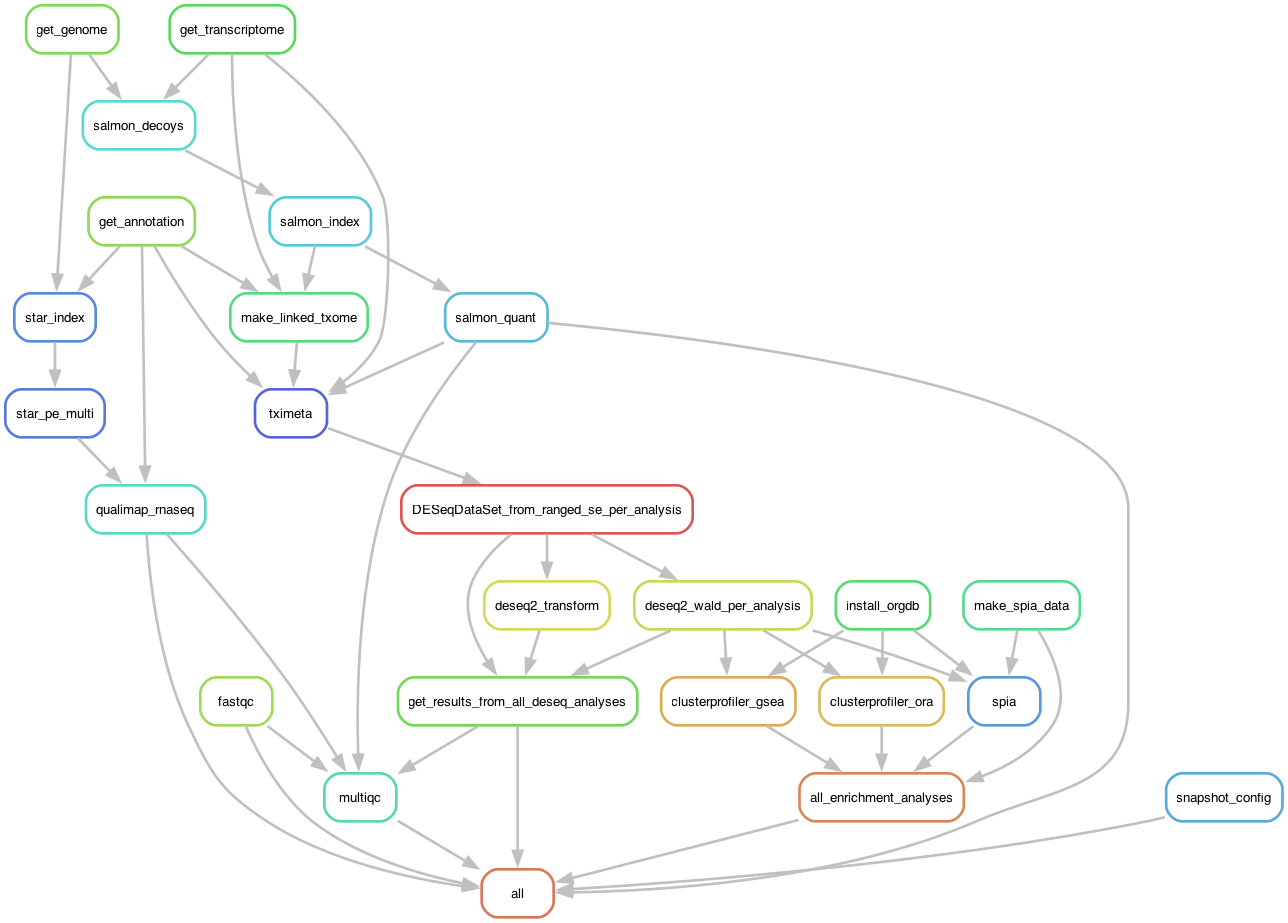
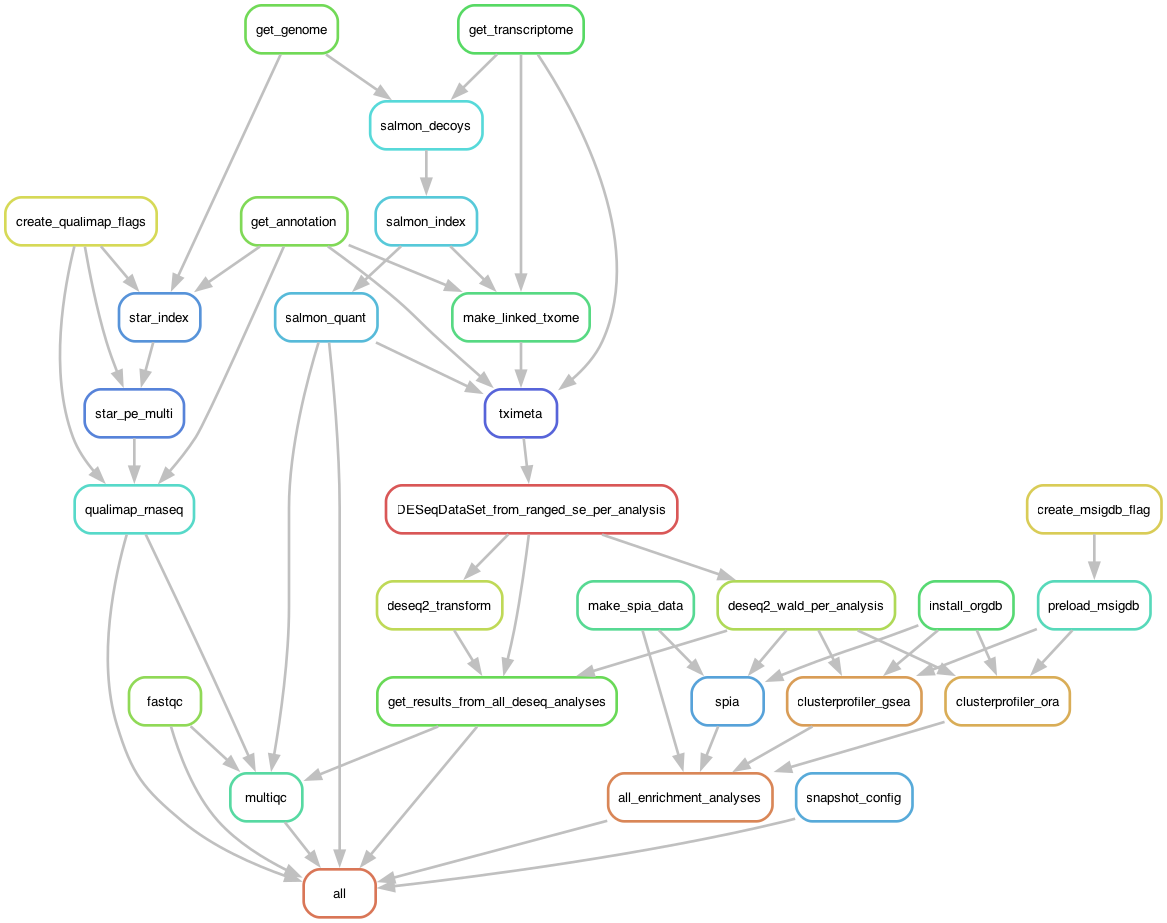
docs: Revise README for clarity and expand workflow scope
- Updated the description of the `tucca-rna-seq` workflow to emphasize its modularity and adaptability for various RNA-Seq projects.
- Added a section on getting started, including a Data Collection Template to help users organize their data and metadata.
- Introduced a new section on future AI-powered analysis integration, outlining plans for a chat application connected to RNA-Seq results.
- Removed outdated workflow image and replaced it with an updated version for better visualization.

diff --git a/README.md b/README.md
@@ -2,9 +2,14 @@
   <img width="25%" align="left" src="images/tucca-rna-seq-logo-white.png" alt="tucca-rna-seq logo">
 </div>
 
-**`tucca-cellag/tucca-rna-seq`** is the
-[Tufts University Center for Cellular Agriculture's (TUCCA)][1] RNA-Seq
-workflow specifically designed for cellular agriculture projects.
+**`tucca-cellag/tucca-rna-seq`** is a modular RNA-Seq workflow developed in the
+[Kaplan Lab at TUCCA][1] and is adaptable for most RNA-Seq projects.
+
+Initially, this workflow was tailored for cellular agriculture research,
+focusing on the analysis of muscle and fat cell transcriptomes. Over time, it
+has been expanded into a flexible and modular tool suitable for a broad range
+of RNA-Seq applications. Its adaptable design allows for easy modification to
+fit various experimental needs beyond its original scope.
 
 This workflow was developed using the [Snakemake][1.5] workflow management
 system. `tucca-rna-seq` is a standardized usage Snakemake workflow that follows
@@ -30,7 +35,6 @@ Snakemake v9.3) and can be found in the [Snakemake Workflow Catalog][3].
 [![Follow on Twitter](http://img.shields.io/badge/tuftscellag-1DA1F2?label=twitter&logo=x)](https://twitter.com/tuftscellag)
 [![Connect on LinkedIn](https://custom-icon-badges.demolab.com/badge/TUCCA-0077B5?label=LinkedIn&logo=linkedin-white&logoColor=fff)](https://www.linkedin.com/company/tufts-cell-ag/)
 
-
 > [!WARNING]
 > This workflow is still under construction. [Release v0.9.0][8] marks our first
 > public release. v0.9.0 contains all logic to process raw paired-end RNA-Seq
@@ -42,8 +46,18 @@ Snakemake v9.3) and can be found in the [Snakemake Workflow Catalog][3].
 > dynamically explore and visualize your results. This will include a suite of
 > Shiny applications leveraging powerful packages like [`pcaExplorer`][9],
 > [`ideal`][10], and [`GeneTonic`][11] to bring your data to life, as well as
-> custom scripting to generate our favorite [`clusterProfiler`][12] figures. We
-> encourage users to test this v0.9.0 release and provide feedback. Users should
+> custom scripting to generate our favorite [`clusterProfiler`][12] figures.
+>
+> **Looking Ahead: AI-Powered Analysis Integration**
+>
+> Beyond v1.0.0, we're developing an innovative AI-powered analysis platform
+> that will integrate directly with this workflow. This platform will feature a
+> private Large Language Model (LLM) chat application connected to your RNA-Seq
+> results, enabling natural language queries about your data. The system will
+> automatically vectorize workflow outputs and provide intelligent,
+> context-aware analysis assistance.
+>
+> We encourage users to test this v0.9.0 release and provide feedback. Users should
 > expect our documentation to be incomplete and continue to have major reworks
 > until v1.0.0 is released. Please [open an issue][5] to report any bugs or
 > suggest improvements. Additionally, feel free to [contact us][contact] with
@@ -56,10 +70,23 @@ The usage of this workflow is described in our documentation at
 we're missing (in the workflow or in our documentation) please
 [open an issue][5] to let us know.
 
+### Getting Started
+
+Before running the workflow, we recommend reviewing our
+[Data Collection Template](https://tucca-cellag.github.io/tucca-rna-seq/getting-started/data-collection)
+to ensure you have all necessary information organized. This template helps you:
+
+- Organize your raw sequencing data
+- Document sample metadata and experimental design
+- Specify analysis parameters and preferences
+- Plan for quality control and visualization needs
+
+For detailed workflow documentation, visit [tucca-cellag.github.io][2].
+
 ## Workflow Overview
 
 <div align="center">
-  <img alt="tucca-rna-seq workflow map" src="images/tucca-rna-seq-workflow-no-logo.png" width="700">
+  <img alt="tucca-rna-seq workflow map" src="images/tucca-rna-seq-workflow.png" width="700">
   <p>Created in <a href="https://BioRender.com">https://BioRender.com</a></p>
 </div>
 
@@ -122,7 +149,7 @@ the `tucca-cellag` community, we ask that you observe our [code of conduct][7].
 [1.5]: https://snakemake.readthedocs.io/en/stable/
 [2]: https://tucca-cellag.github.io/tucca-rna-seq/introduction
 [2.5]: https://snakemake.readthedocs.io/en/stable/snakefiles/best_practices.html
-[3]: https://snakemake.github.io/snakemake-workflow-catalog/docs/workflows/tucca-cellag%20tucca-rna-seq.html
+[3]: https://snakemake.github.io/snakemake-workflow-catalog/docs/workflows/tucca-cellag/tucca-rna-seq.html
 [4]: https://github.com/tucca-cellag/tucca-rna-seq/issues
 [5]: https://github.com/tucca-cellag/tucca-rna-seq/issues/new/choose
 [contact]: <mailto:benjamin.bromberg@tufts.edu>
